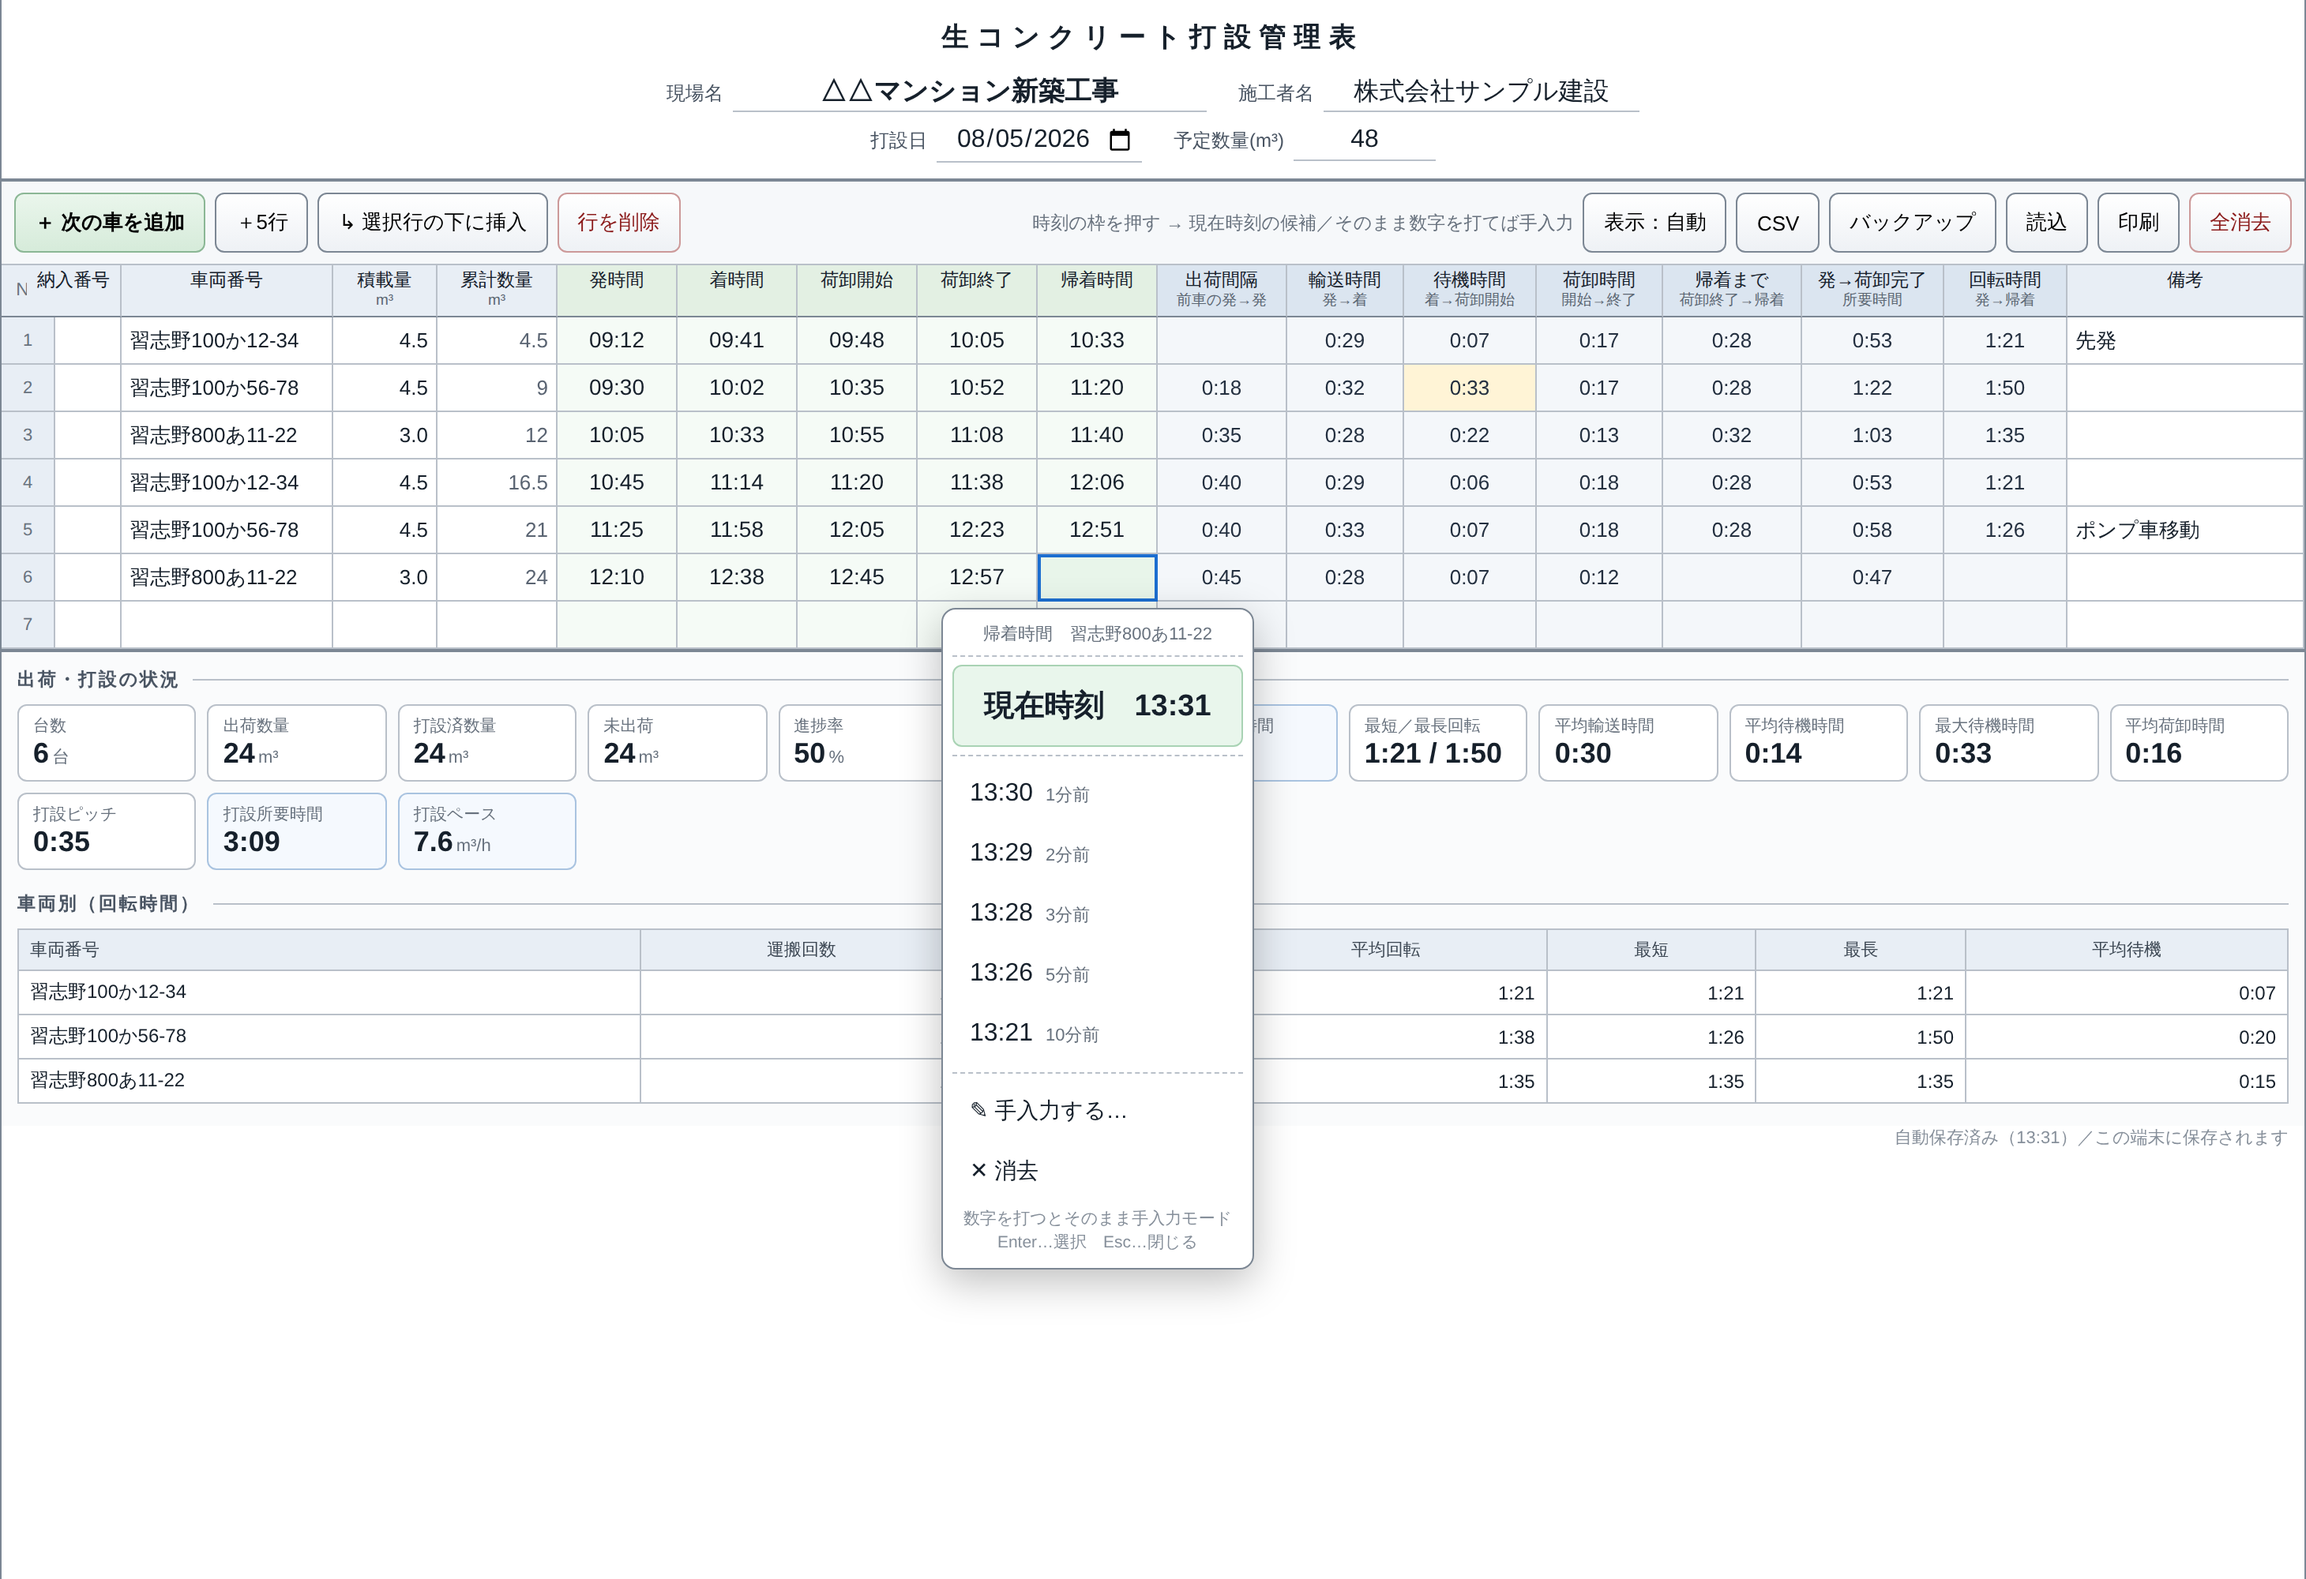
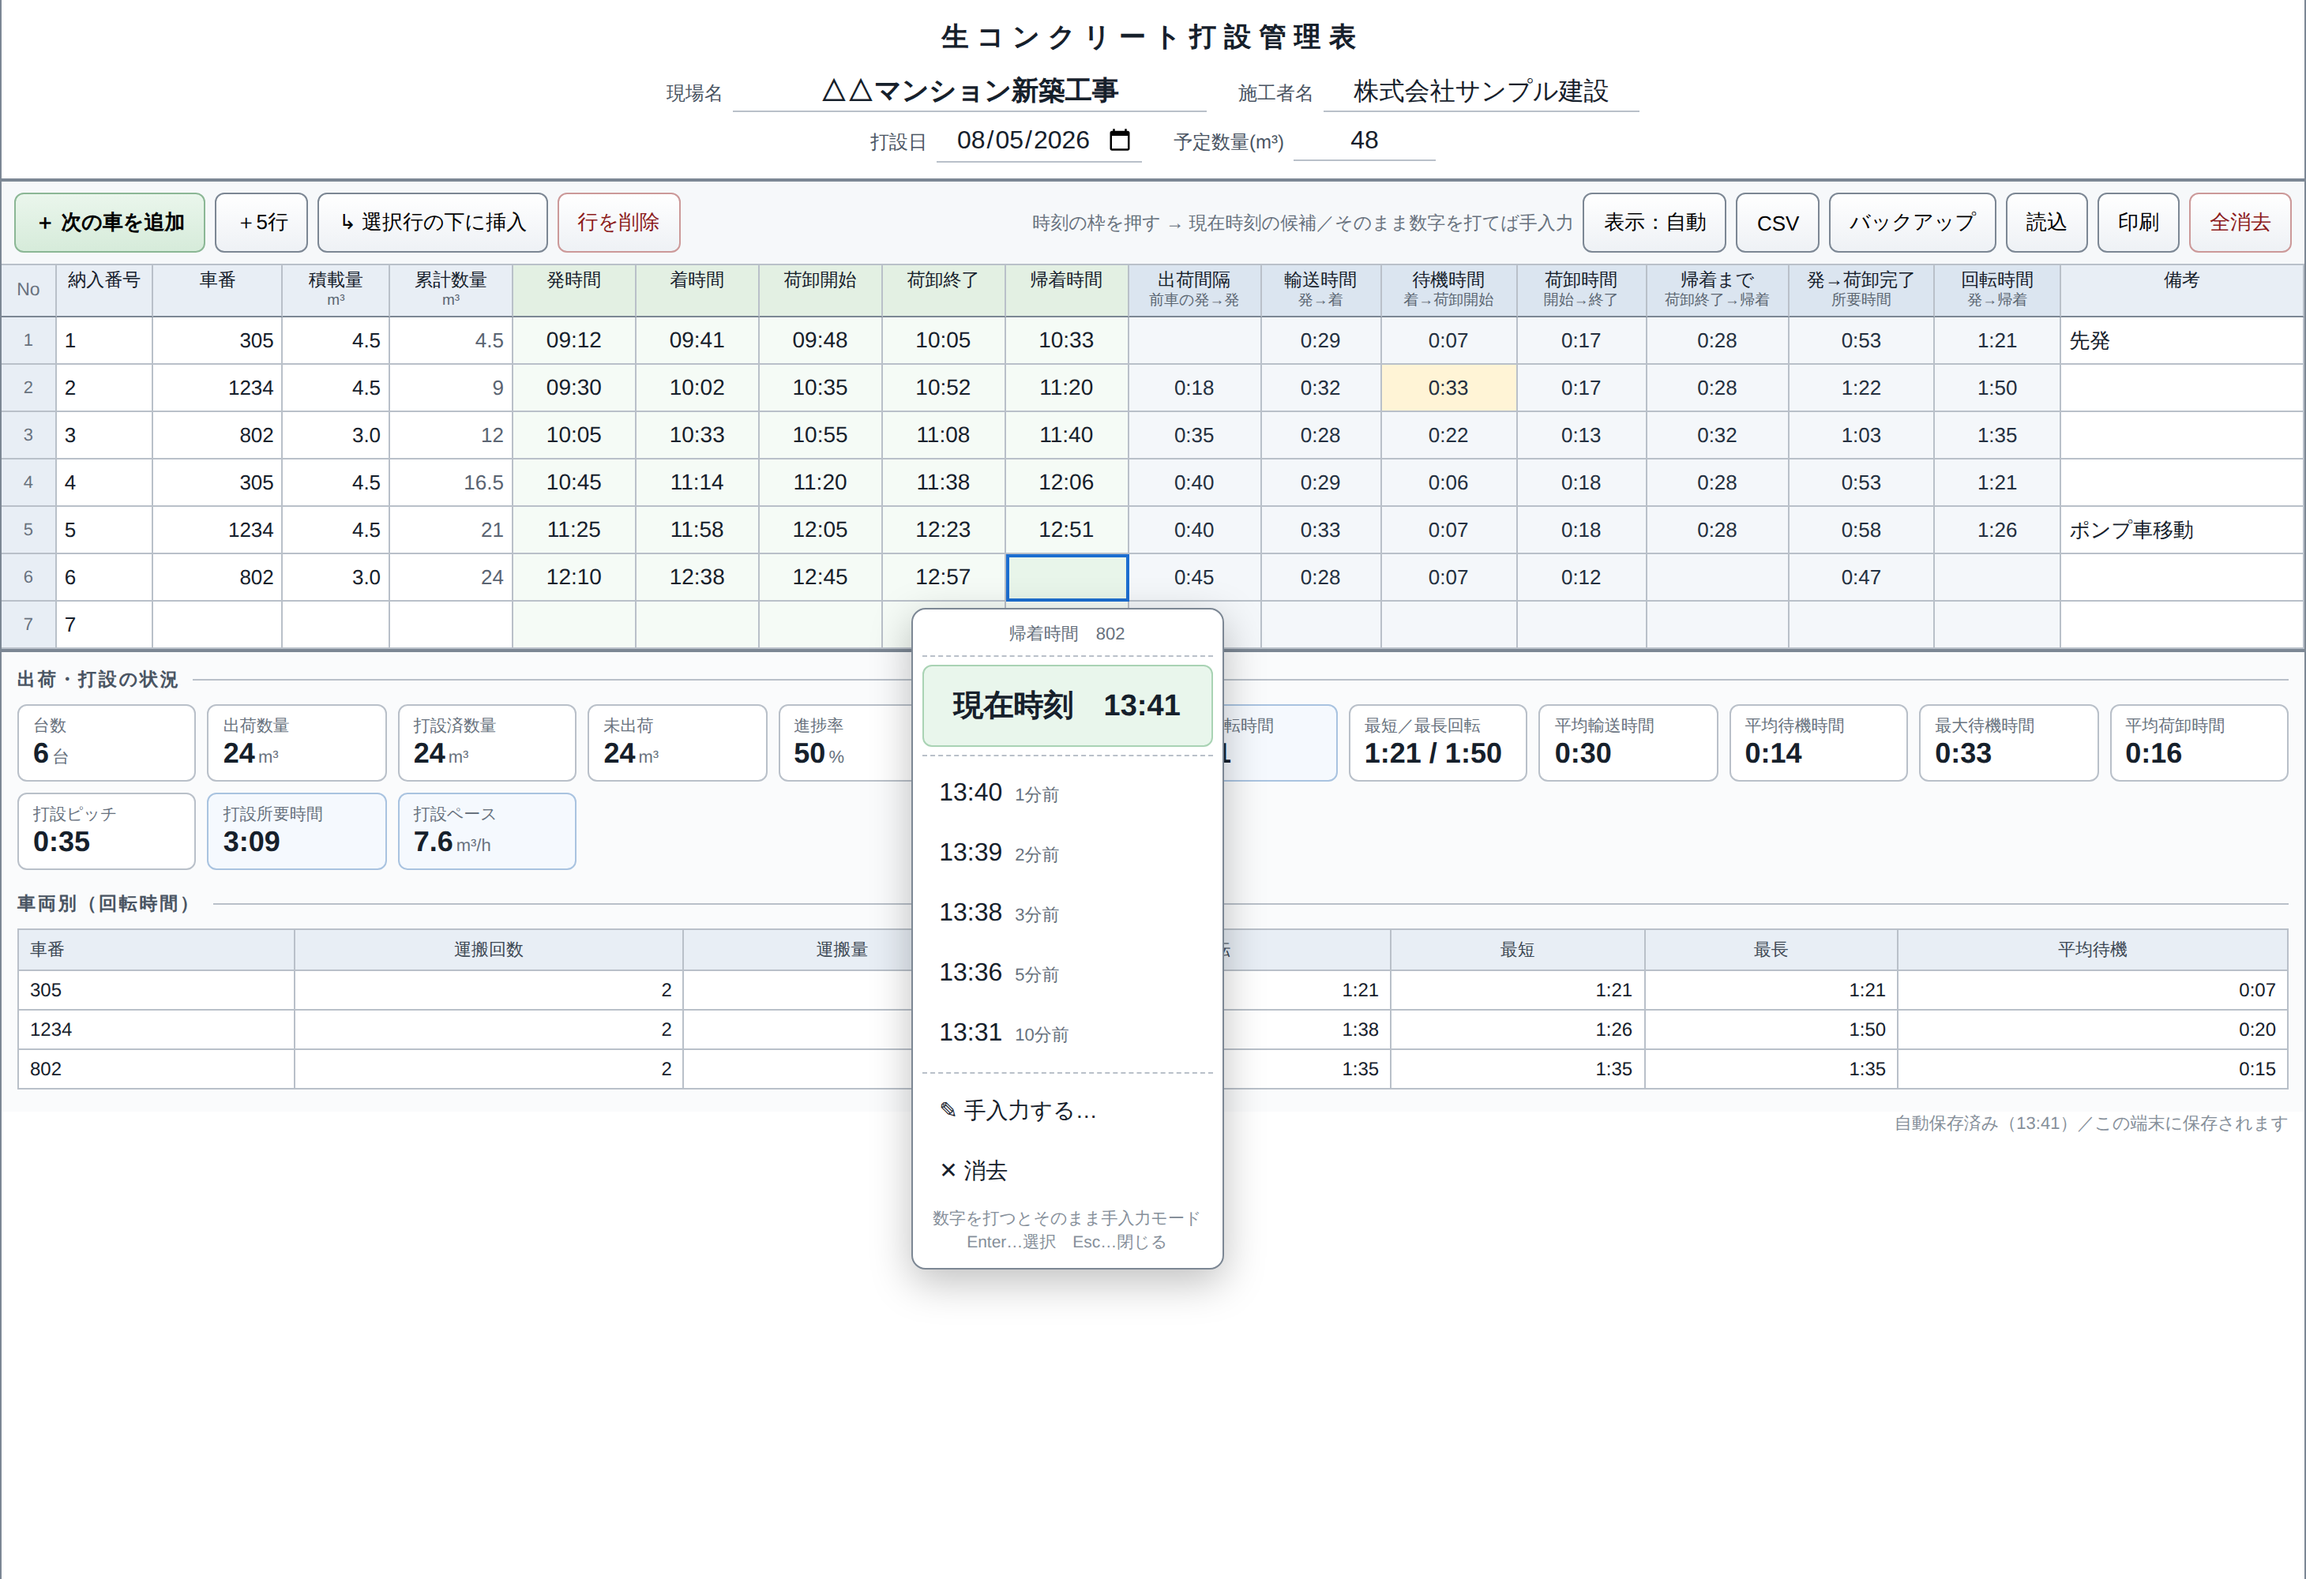
車番を数字のみの入力に変更
車番は数字で運用するため、積載量と同じ数字入力に揃えた。

- 列名を「車両番号」から「車番」に改め、数字キーパッド（inputmode=numeric）で
  入力するようにした
- 確定時に全角数字を半角へ直し、数字以外の文字は取り除く
- 表では右寄せ、カードでは中央寄せで大きめに表示
- 車両別集計の見出しも「車番」に統一

Claude-Session: https://claude.ai/code/session_01QosrVnLxiSx2EHo6PP44D5

diff --git a/index.html b/index.html
@@ -79,7 +79,8 @@
   .tapfld > .txt{overflow:hidden;text-overflow:ellipsis;}
   .tapfld.ph{color:#9aa3ad;}
   .f-no{width:52px;justify-content:center;font-weight:700;font-variant-numeric:tabular-nums;}
-  .f-truck{flex:1;min-width:0;}
+  .f-truck{flex:1;min-width:0;justify-content:center;font-weight:700;font-size:15px;
+           font-variant-numeric:tabular-nums;}
   .f-vol{width:82px;justify-content:flex-end;font-variant-numeric:tabular-nums;}
   .f-del{
     width:34px;min-height:36px;border:1px solid var(--line);border-radius:6px;background:#fff;
@@ -154,6 +155,8 @@
   td.t-text input.editor{text-align:left;}
   td.t-num input.editor{text-align:right;}
   .tapfld input.editor,.card-memo input.editor{text-align:left;height:30px;}
+  .f-truck input.editor{text-align:center;}
+  .f-vol input.editor{text-align:right;}
 
   /* ===== 時刻ピッカー ===== */
   #picker{
@@ -285,7 +288,7 @@
    ============================================================ */
 const COLS = [
   {key:'no',      label:'納入番号',  type:'text', w:60,  ph:'No'},
-  {key:'truck',   label:'車両番号',  type:'text', w:134, ph:'車両番号'},
+  {key:'truck',   label:'車番',      type:'num',  w:80, ph:'車番', int:true},
   {key:'vol',     label:'積載量',    sub:'m³',    type:'num',  w:66, ph:'積載量', unit:' m³'},
   {key:'cum',     label:'累計数量',  sub:'m³',    type:'num',  w:76, auto:true},
   {key:'depart',  label:'発時間',    short:'発',       type:'time', w:76},
@@ -375,6 +378,12 @@ function parseTime(s){
   return null;
 }
 const fmtTime = min => min==null ? '' : pad2(Math.floor(min/60)%24)+':'+pad2(min%60);
+
+/** 全角数字を半角に。int の項目（車番）は数字以外を取り除く */
+function normNum(s, intOnly){
+  let t = String(s).replace(/[０-９．]/g, ch=>String.fromCharCode(ch.charCodeAt(0)-0xFEE0));
+  return intOnly ? t.replace(/\D/g,'') : t.trim();
+}
 
 /** 経過分。日跨ぎは +24h として扱う */
 function span(a,b){
@@ -738,9 +747,9 @@ function renderTrucks(){
   });
   let html;
   if(!map.size){
-    html = '<tbody><tr><td style="text-align:left;color:#868f9a;">車両番号を入力すると、車両ごとの回転時間を集計します。</td></tr></tbody>';
+    html = '<tbody><tr><td style="text-align:left;color:#868f9a;">車番を入力すると、車両ごとの回転時間を集計します。</td></tr></tbody>';
   }else{
-    html = '<thead><tr><th style="text-align:left">車両番号</th><th>運搬回数</th><th>運搬量</th>'+
+    html = '<thead><tr><th style="text-align:left">車番</th><th>運搬回数</th><th>運搬量</th>'+
            '<th>平均回転</th><th>最短</th><th>最長</th><th>平均待機</th></tr></thead><tbody>';
     map.forEach((e,name)=>{
       html += `<tr><td>${escapeHtml(name)}</td><td>${e.n}</td><td>${round2(e.vol)}</td>`+
@@ -802,7 +811,7 @@ function beginEdit(r, key, initial){
   const inp = el('input','editor');
   inp.type = 'text';
   inp.autocomplete = 'off';
-  if(col.type==='num') inp.inputMode='decimal';
+  if(col.type==='num') inp.inputMode = col.int ? 'numeric' : 'decimal';
   else if(col.type==='time') inp.inputMode='numeric';
   inp.value = (initial!=null && initial!=='') ? initial : (rows[r][key] ?? '');
 
@@ -839,10 +848,13 @@ function closeEditor(){
 function commitEdit(){
   if(!editing) return;
   const {r, key, input} = editing;
+  const col = COL[key];
   let v = input.value.trim();
-  if(COL[key].type==='time'){
+  if(col.type==='time'){
     const p = parseTime(v);
     if(p!=null) v = fmtTime(p);            // 9 ／ 934 ／ 9:34 → 09:34 に整形
+  }else if(col.type==='num'){
+    v = normNum(v, col.int);               // 車番は数字だけ
   }
   closeEditor();
   if(rows[r][key] === v){ updateRow(r); return; }

diff --git a/README.md b/README.md
@@ -26,7 +26,7 @@
 時刻の枠を押すと、**現在時刻の候補**が出ます。
 
 ```
-        発時間  習志野800あ11-22
+             発時間  車番 305
  ┌────────────────────┐
  │   現在時刻   12:41   │ ← 押すだけで記録
  ├────────────────────┤
@@ -45,14 +45,15 @@
   （スマホなど、キーボードが出ていないときは「✎ 手入力する…」を押してください）
 - 手入力は `9` / `934` / `9:34` / `９：３４` / `9時34分` のいずれでも `09:34` に整形されます
 - 解釈できない文字は赤く表示されるので、入力ミスにすぐ気付けます
-- 車両番号・積載量・備考は、枠を押すとその場で入力できます（確定キーを押さずに次の枠を押してもかまいません）
+- 車番・積載量・備考は、枠を押すとその場で入力できます（確定キーを押さずに次の枠を押してもかまいません）
+- 車番と積載量は数字キーパッドで入力します（車番に全角や記号が混じっても、数字だけに整えます）
 
 ### 記録する項目
 
 | 項目 | 内容 |
 | --- | --- |
 | 納入番号 | 車を追加すると自動で連番（変更可） |
-| 車両番号 | 例：習志野 800 あ 11-22 |
+| 車番 | 数字のみ（例：305）。数字キーパッドで入力できます |
 | 積載量 | m³ |
 | 累計数量 | 積載量から**自動計算**（直接入力すると、その値を基点に以降を再計算） |
 | 発時間 | 工場出発 |
@@ -86,7 +87,7 @@
 
 ### 車両別（回転時間）
 
-車両番号ごとに、運搬回数・運搬量・**平均回転時間・最短・最長**・平均待機時間を集計します。
+車番ごとに、運搬回数・運搬量・**平均回転時間・最短・最長**・平均待機時間を集計します。
 「この車は何分で回っているか」「どの車が待たされているか」がその場で分かります。
 
 ## 現場情報
